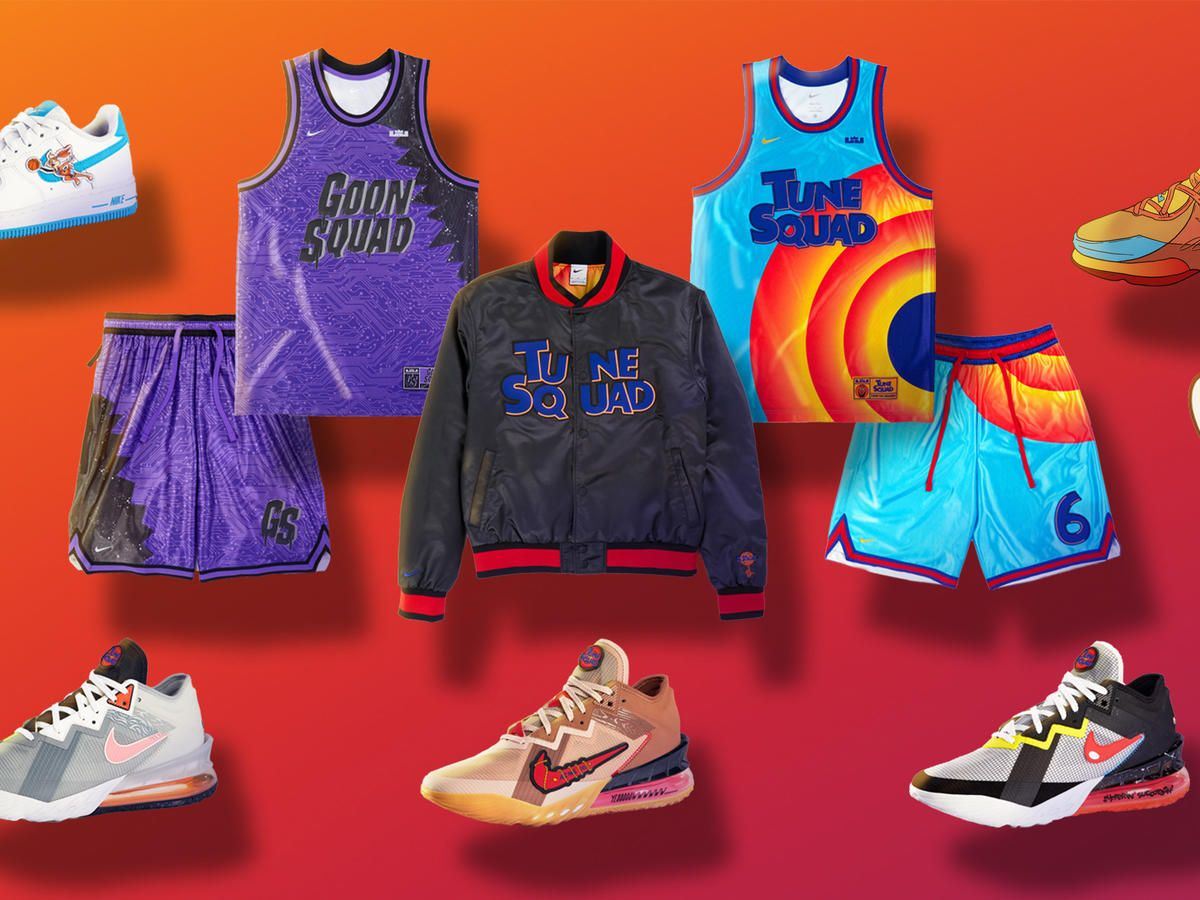
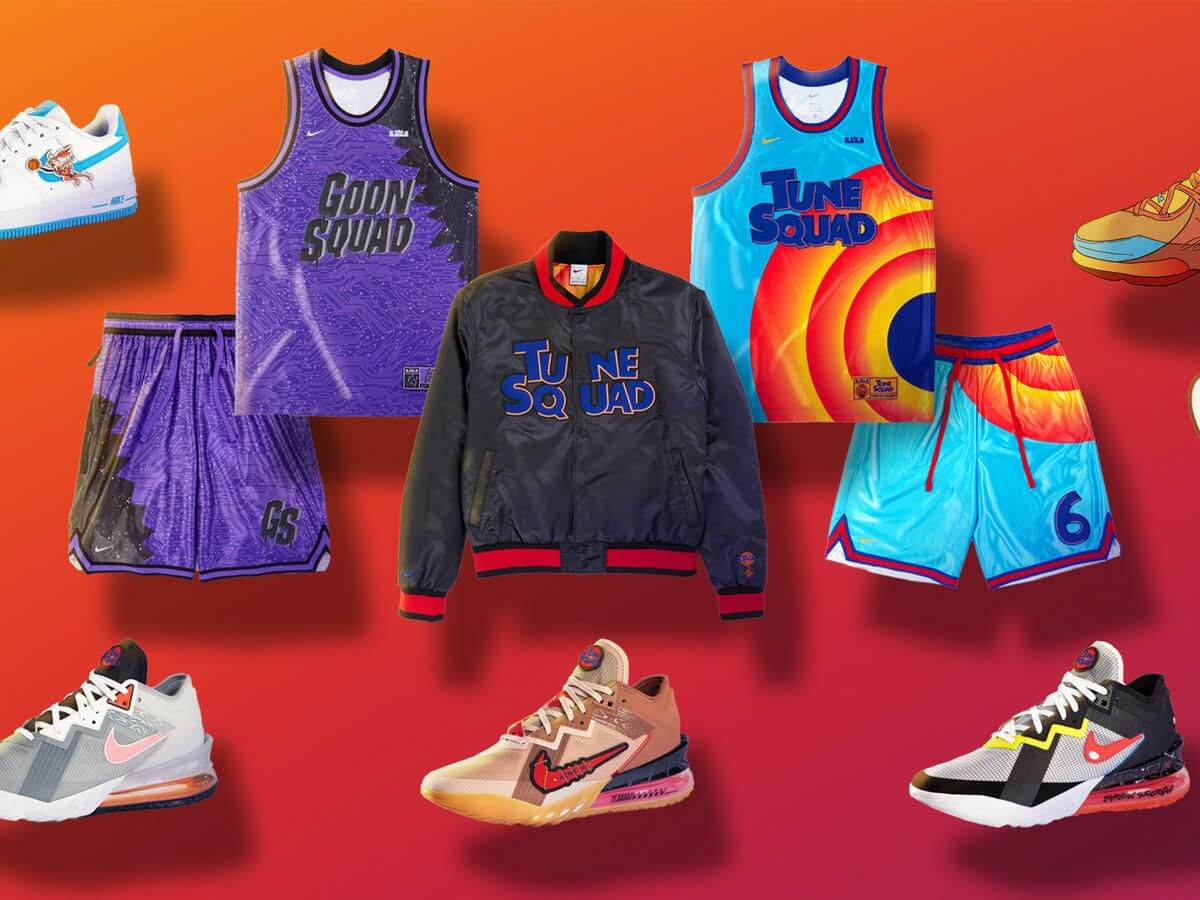
comprimiendo imagenes

diff --git a/index.html b/index.html
@@ -6,7 +6,7 @@
     <link href="https://cdn.jsdelivr.net/npm/bootstrap@5.3.2/dist/css/bootstrap.min.css" rel="stylesheet" integrity="sha384-T3c6CoIi6uLrA9TneNEoa7RxnatzjcDSCmG1MXxSR1GAsXEV/Dwwykc2MPK8M2HN" crossorigin="anonymous">
     <link rel="stylesheet" href="css/style.css">
     <title>Inicio</title>
-    <meta name="description" content="Venta de calzado, indumentaria y productos exclusivos de marcas expecificas, traidas de otros paises o de edicion limitada">
+    <meta name="description" content="Venta de calzado, indumentaria y productos exclusivos de marcas especificas, traidas de otros paises o de edicion limitada">
     <meta name="keywords" content="Nike, Jordan, Adidas, Puma, Zapatillas, Indumentaria, Accesorios, Ropa, Calzado">
 </head>
 
